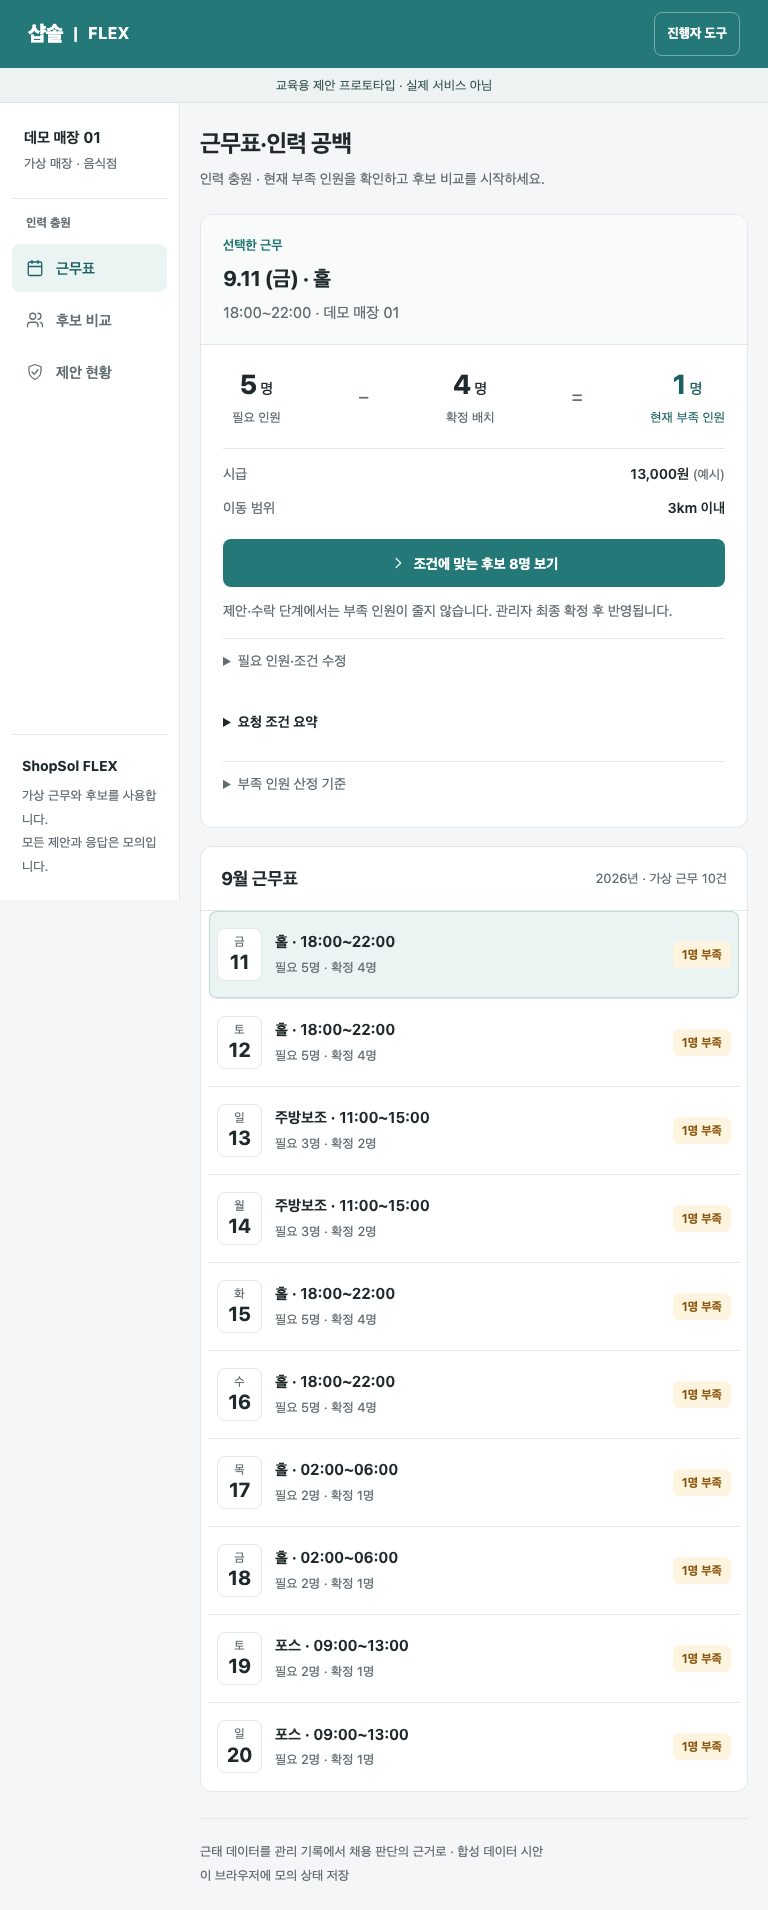
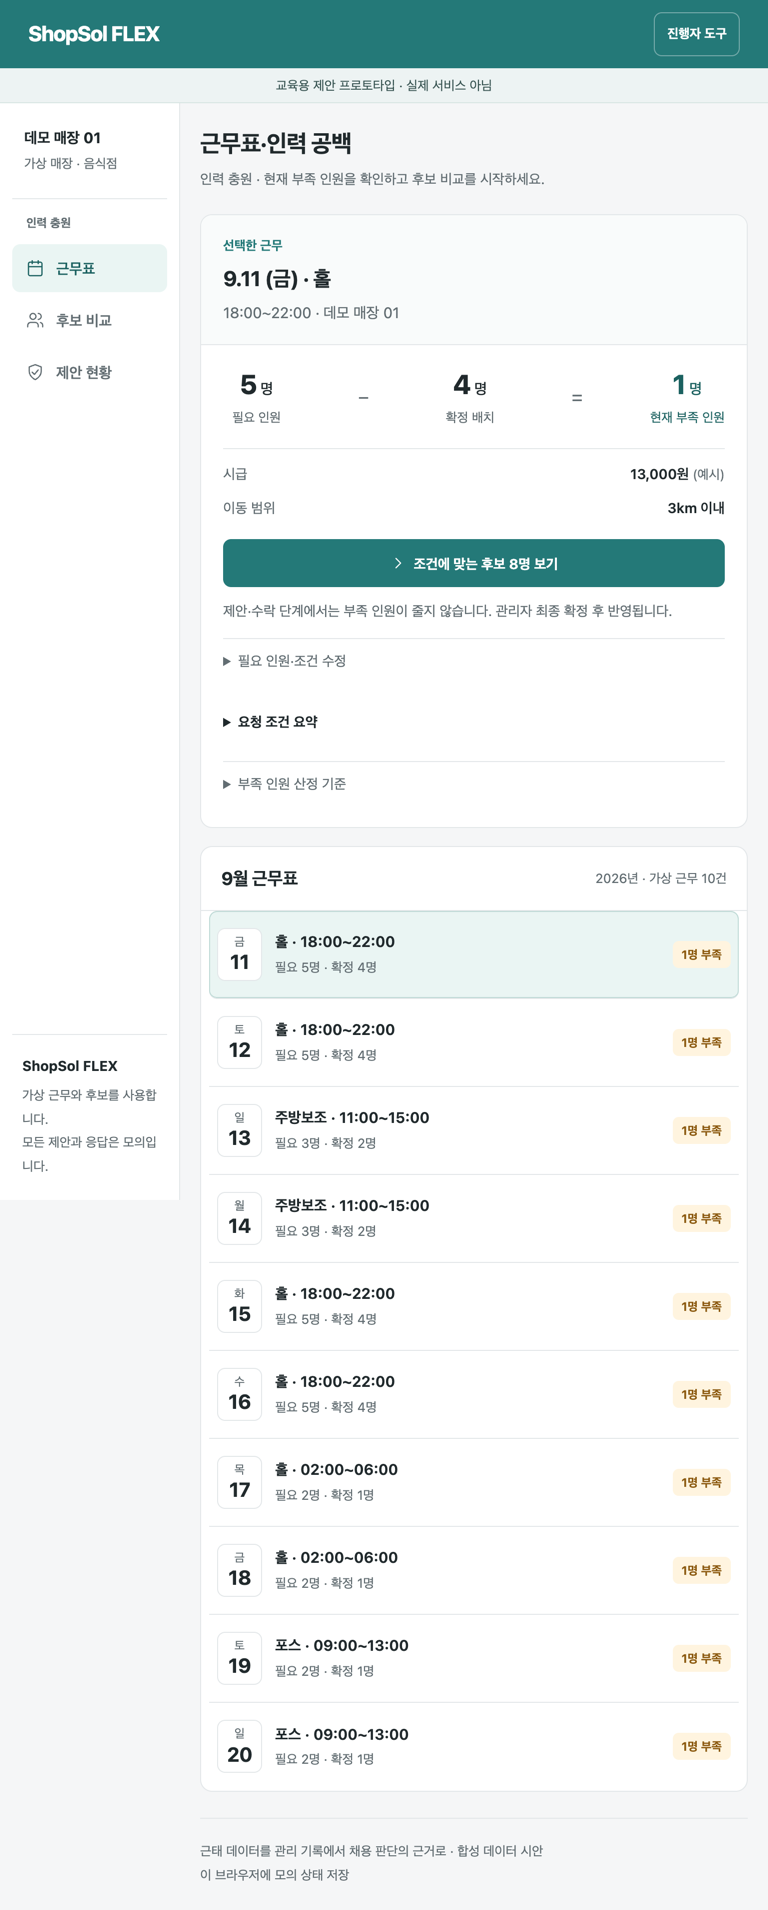
refresh screenshots and rewrite copy
Replace stale product screenshots with captures from the current builds:
ONDA now shows the Sep 8 full-stage map dashboard instead of the empty start
screen, and WESOP reflects the ShopSol FLEX branding fix. dasion5060 is
unchanged in content and only regains 2x sharpness.

Rewrite README and page copy so each project reads in its own shape rather
than a repeated template, and drop the keyword list in the closing section.
Separate the capture date (2026-09-10) from the technical check date
(2026-09-09). All existing metrics, limits and NOT_RUN notes are preserved.

diff --git a/index.html b/index.html
@@ -3,17 +3,17 @@
 <head>
 <meta charset="utf-8"><meta name="viewport" content="width=device-width,initial-scale=1">
 <meta name="description" content="Derrick Hwang의 제품 포트폴리오. WESOP, ONDA, 다시ON5060과 기술 검증 기록.">
-<title>Derrick Hwang | 제품을 만들고, 작동을 확인합니다</title>
+<title>Derrick Hwang | 음성 인터페이스와 콘텐츠 자동화를 만듭니다</title>
 <style>
 :root{--ink:#192c38;--muted:#526573;--paper:#f3f6f8;--line:#d3dee4;--brand:#166963}*{box-sizing:border-box}html{scroll-behavior:smooth}body{margin:0;color:var(--ink);background:var(--paper);font:16px/1.75 -apple-system,BlinkMacSystemFont,"Apple SD Gothic Neo","Malgun Gothic",sans-serif}a{color:inherit;text-underline-offset:5px}a:hover{color:var(--brand)}a:focus-visible{outline:3px solid #bd5b20;outline-offset:5px}.wrap{max-width:1180px;margin:auto;padding:0 32px}header{display:flex;align-items:center;justify-content:space-between;gap:24px;padding:25px 0;border-bottom:1px solid var(--line)}.name{font-weight:750;text-decoration:none}nav{display:flex;gap:24px;font-size:14px}nav a{text-decoration:none}.hero{padding:96px 0 80px;max-width:900px}.eyebrow{font-size:13px;letter-spacing:.12em;text-transform:uppercase;color:var(--brand);font-weight:750}h1{font-size:clamp(36px,5.8vw,70px);line-height:1.18;letter-spacing:-.055em;margin:22px 0 28px;font-weight:780}h2{font-size:30px;letter-spacing:-.035em;line-height:1.35}h3{font-size:24px;letter-spacing:-.03em;line-height:1.4}.hero p{max-width:620px;font-size:19px;color:var(--muted)}.section-top{display:flex;justify-content:space-between;align-items:baseline;border-top:1px solid var(--line);padding-top:20px;gap:20px}.section-top span,.note{font-size:13px;color:var(--muted)}.featured{display:grid;grid-template-columns:1fr 1fr;background:white;margin:24px 0 36px;border:1px solid var(--line);overflow:hidden}.feature-copy{padding:42px}.tag{font-size:12px;border:1px solid var(--line);padding:5px 9px;display:inline-block}.feature-copy h3{font-size:36px;margin:20px 0}.feature-copy p{color:var(--muted)}.button{display:inline-block;background:var(--brand);color:white;padding:12px 20px;text-decoration:none;border-radius:5px;margin:12px 0}.button:hover{background:#124f4b;color:white}.screen{background:#e5edef;padding:28px 28px 0;height:590px;overflow:hidden}.screen img{width:100%;height:auto;display:block;border:1px solid var(--line)}.projects{display:grid;grid-template-columns:1fr 1fr;gap:36px}.project{min-width:0}.project .picture{height:320px;overflow:hidden;background:#e5edef;display:flex;justify-content:center}.picture img{width:100%;height:100%;object-fit:contain}.project h3{margin:20px 0 8px}.project p{color:var(--muted)}.project .mobile img{width:auto;max-width:100%;height:100%;object-fit:contain}.text-project{display:grid;grid-template-columns:220px 1fr;gap:30px;padding:26px 0;border-bottom:1px solid var(--line)}.text-project h3{margin:0;font-size:20px}.text-project p{margin:0;color:var(--muted)}.systems{margin:55px 0 70px}.evidence{background:var(--ink);color:#f4f7f9;padding:45px;margin:24px 0 70px}.evidence p{color:#c5d4de;max-width:820px}.evidence a:hover{color:white}.facts{display:grid;grid-template-columns:1fr 1fr;gap:30px;margin:30px 0}.facts strong{display:block;font-size:32px;line-height:1.4}.facts span{color:#c5d4de;font-size:14px}footer{padding:28px 0 48px;border-top:1px solid var(--line);font-size:13px;color:var(--muted)}.footrow{display:flex;justify-content:space-between;gap:24px;flex-wrap:wrap}@media(max-width:720px){.wrap{padding:0 20px}header{align-items:flex-start;gap:14px}nav{gap:14px;font-size:12px}.hero{padding:60px 0 45px}.hero p{font-size:17px}.featured{grid-template-columns:1fr}.feature-copy{padding:26px}.screen{height:380px;padding:20px 20px 0}.projects{grid-template-columns:1fr;gap:28px}.project .picture{height:260px}.text-project{grid-template-columns:1fr;gap:8px}.evidence{padding:26px}.facts{grid-template-columns:1fr;gap:22px}.section-top{flex-wrap:wrap;gap:0}.section-top h2{margin-bottom:6px}}@media(prefers-reduced-motion:reduce){html{scroll-behavior:auto}}
 </style>
 </head>
 <body><div class="wrap">
 <header><a class="name" href="#">Derrick Hwang</a><nav aria-label="주 메뉴"><a href="#work">프로젝트</a><a href="#evidence">검증 기록</a><a href="https://github.com/kordp888">GitHub</a></nav></header>
-<main><section class="hero"><div class="eyebrow">AI Product Builder</div><h1>제품을 만들고,<br>작동을 확인합니다.</h1><p>사용자가 다음 행동을 찾는 화면부터 실패를 확인하는 운영 흐름까지. 기획, 구현, 검증을 이어가는 황석하입니다.</p></section>
-<section id="work" aria-labelledby="work-title"><div class="section-top"><h2 id="work-title">만들고 있는 제품</h2><span>공개 가능한 화면과 검증 요약 · 2026.09.09</span></div>
-<article class="featured"><div class="feature-copy"><span class="tag">WESOP · 교육용 프로토타입</span><h3>ShopSol FLEX</h3><p>금요일 저녁, 한 명이 부족한 매장.<br>누구에게 제안하고 언제 확정할 수 있을까요?</p><p>근무 공백 확인부터 후보 비교, 제안, 모의 수락·준비 확인, 관리자 확정까지 연결했습니다. 제안과 확정의 차이를 화면에서 이해할 수 있는지 확인하는 시안입니다.</p><a class="button" href="https://wesop-shopsol-prototype.vercel.app/">프로토타입 체험하기</a><p class="note">합성 데이터 사용. 실제 샵솔 연동·채용·AI 추천 없음.<br>사용자 테스트 참여자 0명, 사용자 가설 미검증.</p></div><div class="screen"><img src="images/wesop.png" width="768" height="1910" alt="ShopSol FLEX 가상 매장 근무표. 필요 5명, 확정 4명, 부족 1명."></div></article>
-<div class="projects"><article class="project"><div class="picture"><img src="images/onda.png" alt="ONDA 차량 브라우저 인터페이스의 시작 화면" loading="lazy"></div><h3>ONDA</h3><p>차량 브라우저에서 시작하는 음성 중심 경험. 정보가 필요한 순간과 센서 입력이 불안정한 상황을 함께 설계합니다.</p><p class="note">보관된 시안입니다. 실차 검증·출시를 증명하지 않습니다.</p></article><article class="project"><div class="picture mobile"><img src="images/dasion5060.png" alt="다시ON5060의 음성 질문과 생활 과제 버튼" loading="lazy"></div><h3>다시ON5060</h3><p>디지털 서비스가 낯선 사용자를 위한 한 단계씩의 안내. 큰 음성 버튼과 생활 과제에서 다음 행동을 찾습니다.</p><p class="note">화면 시안입니다. 실제 사용자 대상 사용성 결과는 포함하지 않습니다.</p></article></div>
-<div class="systems"><article class="text-project"><h3>콘텐츠 자동화</h3><p>자료, 원고, 음성, 영상, 검수를 연결합니다. 생성 이후의 확인과 실패한 작업의 마지막 성공 단계에 집중합니다.</p></article><article class="text-project"><h3>LLM Wiki</h3><p>참고자료와 결정 기록을 다음 작업의 문맥으로 사용합니다. 저장량보다 실제 선택과 재사용을 확인합니다.</p></article><article class="text-project"><h3>Signal Crew</h3><p>할 일과 진행 상태를 한곳에서 읽는 협업 경험. 개인과 팀의 업무 내용이 담긴 운영 화면은 공개하지 않습니다.</p></article></div></section>
-<section id="evidence" aria-labelledby="evidence-title"><div class="section-top"><h2 id="evidence-title">검증한 만큼만 이야기합니다.</h2></div><div class="evidence"><div class="eyebrow" style="color:#b0dcd7">Technical checks · 2026.09.09</div><div class="facts"><div><strong>58개 / 278개</strong><span>WESOP 보관 기록의 단위·빌드 검사 / 공개 HTTPS 브라우저 검사 통과</span></div><div><strong>113개 통과</strong><span>운영 도구 로컬 테스트. 개별 제품 전체 검사 수와 구분합니다.</span></div></div><p>기술 테스트와 사용자 평가는 별개입니다. WESOP의 실제 참여자 테스트와 물리 기기 검사는 미실행 상태이며, 채용 성과나 사업 효과도 주장하지 않습니다.</p><a href="VERIFICATION.md">검사 범위와 한계 읽기</a></div></section>
-</main><footer><div class="footrow"><span>Derrick Hwang · 제품 기획 / 음성 UX / AI 운영 / 품질 검증</span><a href="https://github.com/kordp888/portfolio-showcase">공개 포트폴리오 저장소</a></div><p>소개, 선별한 화면, 검증 요약을 공개합니다. 제품 소스·프롬프트·내부 자료는 비공개입니다. 이 소개 페이지의 정적 HTML/CSS는 공개됩니다.</p></footer></div></body></html>
+<main><section class="hero"><div class="eyebrow">AI Product Builder</div><h1>쓸 사람이 다음 행동을<br>알아보는 제품을 만듭니다.</h1><p>음성 인터페이스와 콘텐츠 자동화, 개인 지식 시스템을 다룹니다. 만든 다음에는 실제 조건에서 돌려보고 어디까지 확인됐는지를 같이 남깁니다. 황석하입니다.</p></section>
+<section id="work" aria-labelledby="work-title"><div class="section-top"><h2 id="work-title">만들고 있는 제품</h2><span>화면 캡처 2026.09.10 · 기술 검사 2026.09.09</span></div>
+<article class="featured"><div class="feature-copy"><span class="tag">WESOP · 교육용 프로토타입</span><h3>ShopSol FLEX</h3><p>금요일 저녁 홀 근무에 한 명이 빕니다.<br>누구에게 제안하고, 언제부터 채워진 걸로 봐야 할까요?</p><p>부족 인원 확인에서 후보 비교와 제안을 거쳐 모의 수락, 준비 확인, 관리자 확정까지 이어집니다. 제안하거나 수락하는 것만으로는 인원이 채워지지 않게 했습니다. 그 차이가 화면에서 읽히는지가 이 시안의 질문입니다.</p><a class="button" href="https://wesop-shopsol-prototype.vercel.app/">프로토타입 체험하기</a><p class="note">쓰는 데이터는 전부 합성입니다. 실제 샵솔 연동이나 채용, AI 추천은 없습니다.<br>참여자를 받은 적이 없어 사용자 가설은 아직 미검증입니다.</p></div><div class="screen"><img src="images/wesop.png" width="768" height="1910" alt="ShopSol FLEX 가상 매장 근무표. 필요 5명, 확정 4명, 부족 1명."></div></article>
+<div class="projects"><article class="project"><div class="picture"><img src="images/onda.png" alt="ONDA 주행 안내 화면. 지도 위에 주의 정보와 GPS 속도가 떠 있다." loading="lazy"></div><h3>ONDA</h3><p>앱을 깔지 않고 차량 브라우저에서 바로 들어갑니다. 위치가 흔들릴 때 안내를 이어갈지 멈출지, 그 경계를 정하는 일이 설계의 대부분이었습니다.</p><p class="note">현재 빌드의 데모 주행 화면입니다. 좌표와 단속 정보는 모의 데이터입니다.</p></article><article class="project"><div class="picture mobile"><img src="images/dasion5060.png" alt="다시ON5060의 음성 질문과 생활 과제 버튼" loading="lazy"></div><h3>다시ON5060</h3><p>디지털이 낯선 분들이 음성으로 묻고 다음에 뭘 눌러야 할지 찾는 화면입니다. 자주 막히는 생활 과제를 위로 뺐습니다.</p><p class="note">현재 빌드 화면입니다. 고령 사용자 사용성 결과는 아직 없습니다.</p></article></div>
+<div class="systems"><article class="text-project"><h3>콘텐츠 자동화</h3><p>자료와 원고, 음성, 영상, 검수를 이어 붙였습니다. 손이 많이 간 쪽은 생성이 아니라 그 다음이었습니다. 실패하면 어느 단계까지 성공했는지를 남겨 거기서 다시 시작합니다.</p></article><article class="text-project"><h3>LLM Wiki</h3><p>흩어진 참고자료와 결정 기록을 모아 새 작업에 필요한 것만 골라 옵니다. 저장됐다는 사실과 실제로 쓰였다는 사실은 따로 봅니다.</p></article><article class="text-project"><h3>Signal Crew</h3><p>할 일과 진행 상태, 주고받은 맥락을 한 화면에서 읽는 제품입니다. 업무 내용이 그대로 보이는 운영 화면이라 여기에는 싣지 않았습니다.</p></article></div></section>
+<section id="evidence" aria-labelledby="evidence-title"><div class="section-top"><h2 id="evidence-title">확인한 것과 아직인 것을 나눠 적었습니다.</h2></div><div class="evidence"><div class="eyebrow" style="color:#b0dcd7">Technical checks · 2026.09.09</div><div class="facts"><div><strong>58개 / 278개</strong><span>WESOP 보관 기록의 단위·빌드 검사 / 공개 HTTPS 브라우저 검사 통과</span></div><div><strong>113개 통과</strong><span>운영 도구 로컬 테스트. 개별 제품 전체 검사 수와 구분합니다.</span></div></div><p>기술 검사가 통과했다는 것과 사용자가 만족했다는 것은 다른 이야기입니다. WESOP은 실제 참여자 테스트와 물리 기기 검사를 아직 하지 않았고, 채용 성과나 사업 효과도 말할 단계가 아닙니다.</p><a href="VERIFICATION.md">검사 범위와 한계 읽기</a></div></section>
+</main><footer><div class="footrow"><span>Derrick Hwang · 음성 인터페이스와 콘텐츠 자동화를 만듭니다</span><a href="https://github.com/kordp888/portfolio-showcase">공개 포트폴리오 저장소</a></div><p>소개와 선별한 화면, 검증 요약만 공개합니다. 제품 소스와 프롬프트, 내부 자료는 비공개입니다. 이 소개 페이지의 정적 HTML과 CSS는 공개됩니다.</p></footer></div></body></html>

diff --git a/README.md b/README.md
@@ -2,8 +2,8 @@
 
 ### AI Product Builder
 
-사용자의 불편에서 출발해 제품을 만들고, 실제 작동하는지 확인합니다.
-음성 인터페이스, 콘텐츠 자동화, 개인 지식 시스템을 설계하고 운영합니다.
+음성 인터페이스와 콘텐츠 자동화, 개인 지식 시스템을 만듭니다. 만든 다음에는 실제 조건에서
+돌려보고, 어디까지 확인됐고 어디부터가 아직인지를 함께 적어둡니다.
 
 [제품 살펴보기](#제품) · [검증 기록](VERIFICATION.md) · [GitHub](https://github.com/kordp888)
 
@@ -11,49 +11,60 @@
 
 ### WESOP · ShopSol FLEX
 
-매장의 부족 인원을 확인하고 후보 비교, 제안, 모의 수락과 준비 확인, 관리자 확정까지 이어지는 교육용 인터랙티브 프로토타입입니다. 관리자 화면 3개와 근로자 응답 모의화면을 연결했습니다.
+<img src="images/wesop.png" alt="ShopSol FLEX 근무표 화면. 필요 5명, 확정 4명, 부족 1명." width="420">
+
+금요일 저녁 홀 근무에 한 명이 빕니다. 누구에게 제안할지, 그리고 언제부터 그 자리를 채워진 것으로
+봐야 할지가 이 프로토타입의 질문입니다.
+
+부족 인원 확인에서 후보 비교와 제안을 거쳐 모의 수락, 준비 확인, 관리자 확정까지 이어집니다.
+관리자 화면 3개와 근로자 응답 모의화면이 붙어 있습니다. 제안하거나 수락하는 것만으로는
+부족 인원이 줄지 않게 했습니다. 관리자가 확정해야 반영됩니다.
 
 [프로토타입 열기](https://wesop-shopsol-prototype.vercel.app/)
 
-<img src="images/wesop.png" alt="가상 매장의 부족 인원을 보여주는 ShopSol FLEX 프로토타입" width="420">
-
-2026-09-09 보관 검증 기록: 단위·빌드 검사 58개, 공개 HTTPS 브라우저 검사 278개 통과. 서로 다른 실행의 검사 수를 합산하지 않습니다. 실제 참여자 0명으로 사용자 가설은 NOT_RUN입니다. 실기기 검사와 현장 채용 성과도 미검증입니다. 합성 데이터만 사용하며 실제 샵솔 연동·채용·AI 추천은 수행하지 않습니다. 제품 구현 저장소는 비공개입니다.
+쓰는 데이터는 전부 합성입니다. 실제 샵솔 연동이나 채용, AI 추천은 들어 있지 않습니다.
+2026-09-09에 보관한 기록으로는 단위·빌드 검사 58개와 공개 HTTPS 브라우저 검사 278개가
+통과했는데, 서로 다른 실행이라 더해서 쓰지 않습니다. 참여자를 받은 적이 없어 사용자 가설은
+NOT_RUN이고 실기기 검사와 현장 채용 성과도 아직입니다. 구현 저장소는 비공개입니다.
 
 ### ONDA · 차량 브라우저의 주행 경험
 
-앱 설치 없이 차량 브라우저에서 진입하는 음성 중심 인터페이스입니다.
-주행과 정차 상황에 맞춰 필요한 정보를 찾는 동선을 설계했습니다.
-
 ![ONDA 시작 화면](images/onda.png)
 
-**설계 판단**  센서 입력이 불안정할 때의 동작과 음성 안내의 경계를 함께 다룹니다.
-화면은 보관된 제품 시안이며 현재 실차 동작이나 출시 승인을 증명하지 않습니다.
+앱을 깔지 않고 차량 브라우저에서 바로 들어갑니다. 운전 중에는 손이 자유롭지 않으니 음성을
+앞에 뒀고, 달릴 때와 세워둘 때 필요한 정보가 다르다는 전제로 동선을 짰습니다.
+
+까다로웠던 건 센서 입력이 흔들릴 때였습니다. 위치가 확실하지 않은 상태에서 안내를 이어갈지
+멈출지, 그 경계를 정하는 일이 설계의 대부분이었습니다. 위 화면은 2026-09-10에 현재 빌드를
+데모 주행 모드로 띄워 캡처했습니다. 좌표와 단속 정보가 모의 데이터라 실차 주행이나 출시
+승인을 뜻하지는 않습니다.
 
 ### 다시ON5060 · 한 번에 한 단계
 
-디지털 서비스가 낯선 사용자가 음성으로 질문하고 다음 행동을 찾는 인터페이스입니다.
-큰 질문 버튼과 사진 보내기·글씨 크게 보기 같은 생활 과제를 앞에 배치했습니다.
-
 <img src="images/dasion5060.png" alt="다시ON5060의 음성 질문과 생활 과제 화면" width="320">
 
-**설계 판단**  기능 수보다 다음 행동을 알아볼 수 있는지를 먼저 봅니다.
-이 화면만으로 고령 사용자 대상 사용성 검증이 완료됐다고 주장하지 않습니다.
+디지털이 낯선 분들이 음성으로 묻고 다음에 뭘 눌러야 할지 찾는 화면입니다. 큰 질문 버튼을
+맨 위에 두고, 사진 보내기나 글씨 크게 보기처럼 자주 막히는 과제를 앞으로 뺐습니다.
+
+기능을 몇 개 넣었는지는 여기서 기준이 아니었습니다. 처음 보는 사람이 다음 행동을 알아보는지가
+기준이었습니다. 2026-09-10 현재 빌드를 캡처한 화면이고, 고령 사용자 사용성 결과는 아직 없습니다.
 
 ### 콘텐츠 자동화 · 생성 이후의 확인
 
-자료 수집, 원고, 음성, 영상, 검수의 연결을 다룹니다.
-생성 결과의 수치·출처·상태를 확인하고, 실패 시 마지막 성공 단계를 남기는 운영 방식을 설계합니다.
-구현 코드와 제작 원본은 비공개로 관리합니다.
+자료 수집부터 원고, 음성, 영상, 검수까지 이어 붙였습니다. 정작 손이 많이 간 쪽은 생성이 아니라
+그 다음이었습니다. 나온 결과의 수치와 출처가 맞는지 보고, 중간에 실패하면 어느 단계까지
+성공했는지를 남겨 거기서 다시 시작할 수 있게 했습니다. 구현 코드와 제작 원본은 비공개입니다.
 
-### LLM Wiki · 다시 사용할 수 있는 지식
+### LLM Wiki · 다시 쓰이는 지식
 
-프로젝트별 참고자료와 결정 기록을 모으고 작업에 필요한 문맥을 선택합니다.
-자료를 저장한 사실과 실제로 다음 작업에 반영된 사실을 구분해 검증합니다.
+프로젝트마다 흩어진 참고자료와 결정 기록을 모아두고, 새 작업을 시작할 때 필요한 것만 골라 옵니다.
+검증할 때는 자료가 저장됐다는 사실과 그게 실제로 다음 작업에 쓰였다는 사실을 따로 봅니다.
+쌓아두기만 한 자료는 없는 것과 크게 다르지 않아서입니다.
 
 ### Signal Crew · 오늘의 작업을 한곳에
 
-할 일과 진행 상태, 협업의 맥락을 한 화면에서 파악하는 제품을 개발합니다.
-개인·팀 데이터가 담길 수 있는 운영 화면은 이 포트폴리오에 싣지 않습니다.
+할 일과 진행 상태, 주고받은 맥락을 한 화면에서 읽는 제품입니다. 개인이나 팀의 업무 내용이
+그대로 보이는 운영 화면이라 여기에는 싣지 않았습니다.
 
 ## 검증으로 남기는 것
 
@@ -63,17 +74,16 @@
 | 복사한 자료의 지속성 | 임시 원본이 없어도 관리 사본이 로드되는 회귀 검사 |
 | 운영 도구 검증 | 2026-09-09 로컬 테스트 113개 통과, 실패 0개 |
 
-위 수치는 해당 시점의 기술 검사입니다. 사용자 만족도나 사업 성과를 뜻하지 않습니다.
-검사 범위와 한계는 [검증 기록](VERIFICATION.md)에 적었습니다.
+그 시점의 기술 검사 결과입니다. 사용자가 만족했다거나 사업 성과가 났다는 뜻은 아닙니다.
+무엇을 얼마나 확인했고 무엇이 빠졌는지는 [검증 기록](VERIFICATION.md)에 적어뒀습니다.
 
 ## 일하는 방식
 
-해결할 문제와 관찰할 결과부터 정합니다. 작은 동작을 만들고 실제 사용 조건에서
-확인합니다. 실패하면 원인과 바뀐 판단을 기록해 다음 작업의 시작점으로 삼습니다.
-
-제품 기획 · 사용자 흐름 설계 · AI 파이프라인 · 음성 UX · 품질 검증 · 운영 자동화
+풀려는 문제와, 무엇을 보고 됐다고 판단할지를 먼저 정합니다. 그 다음 제일 작은 동작 하나를
+실제 조건에서 돌려봅니다. 실패하면 원인과 그때 바뀐 판단을 적어 다음 출발점으로 씁니다.
+이 순서가 흔들리면 만든 건 늘어나는데 확인된 건 그대로입니다.
 
 ---
 
-이 저장소는 소개, 선별한 화면, 검증 요약만 공개합니다.
-서비스 코드, 프롬프트, 내부 자료, 원본 로그 및 고객 데이터는 포함하지 않습니다.
+이 저장소에는 소개와 선별한 화면, 검증 요약만 있습니다. 서비스 코드와 프롬프트, 내부 자료,
+원본 로그, 고객 데이터는 들어 있지 않습니다.
